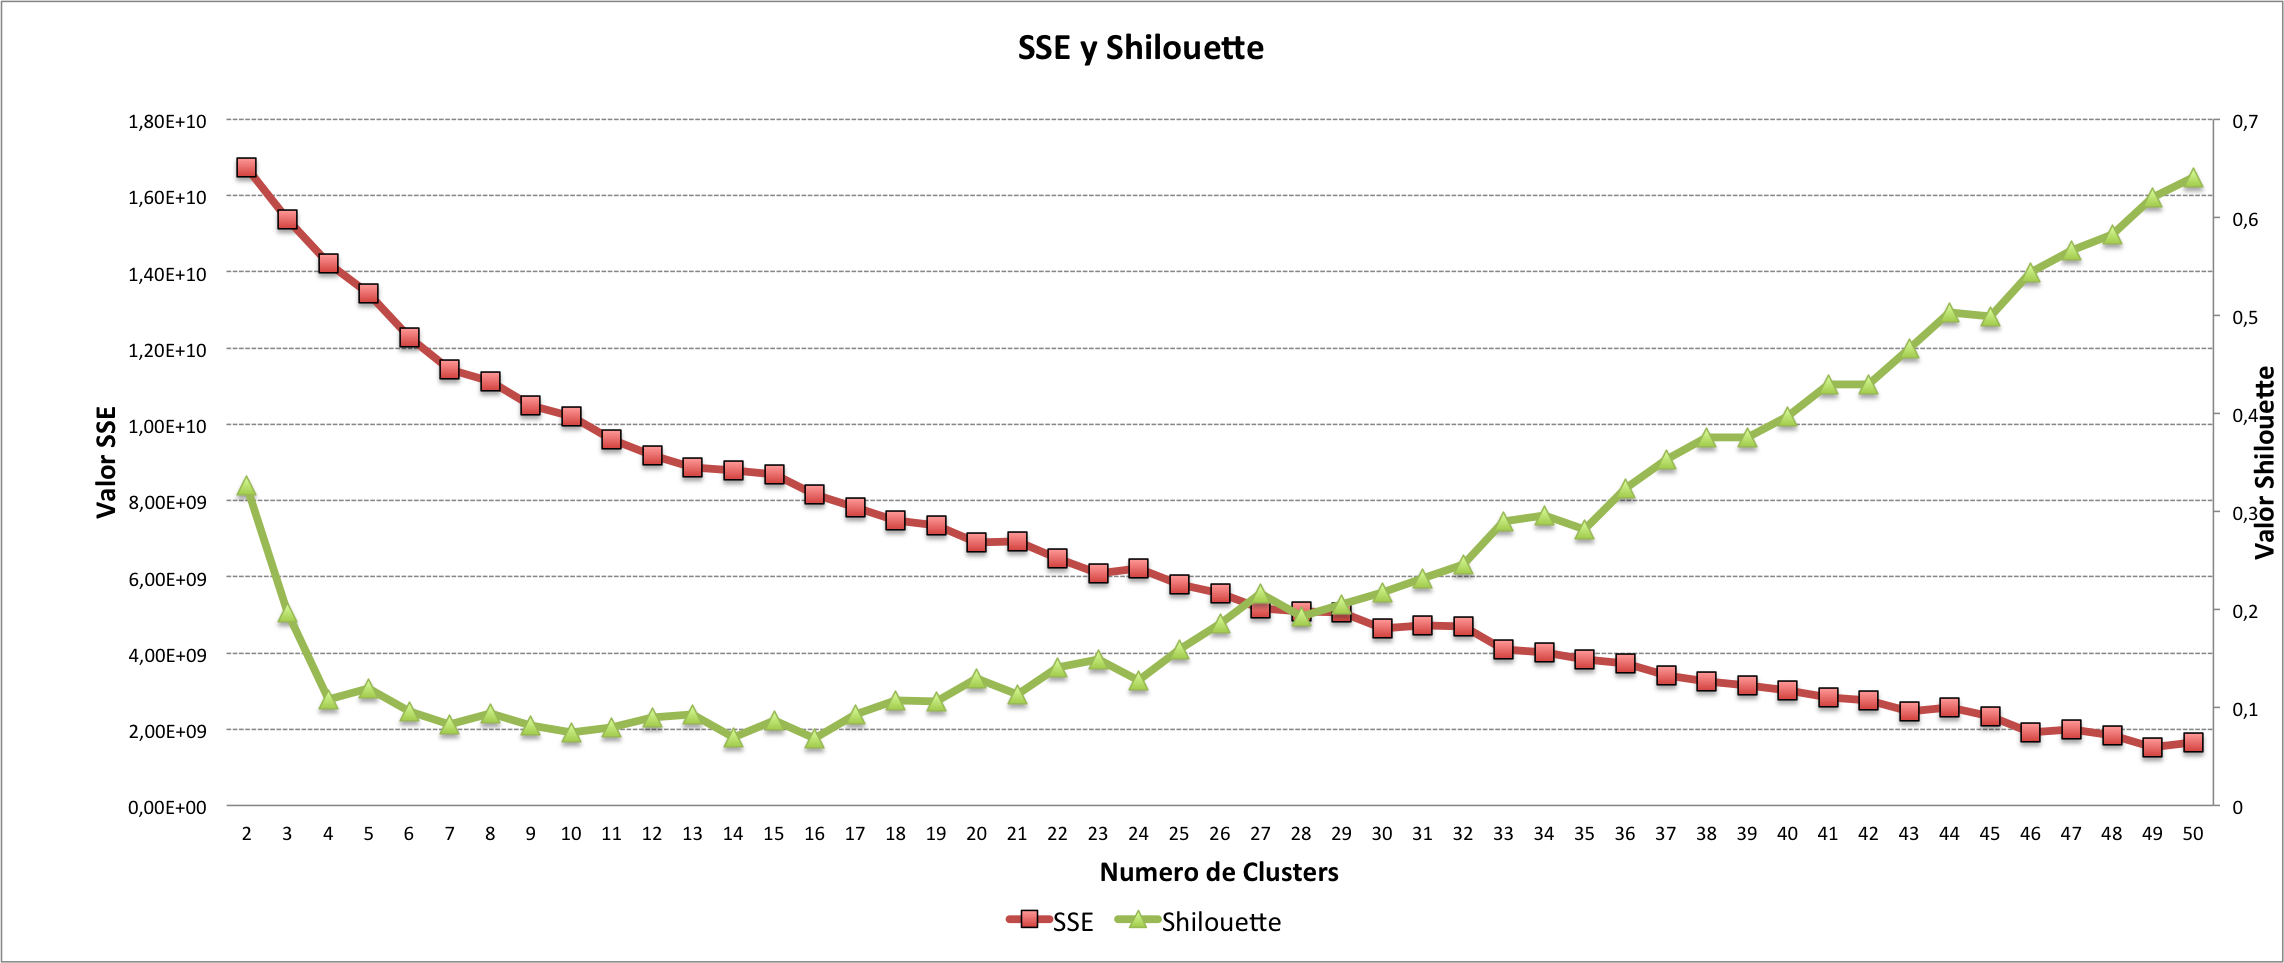
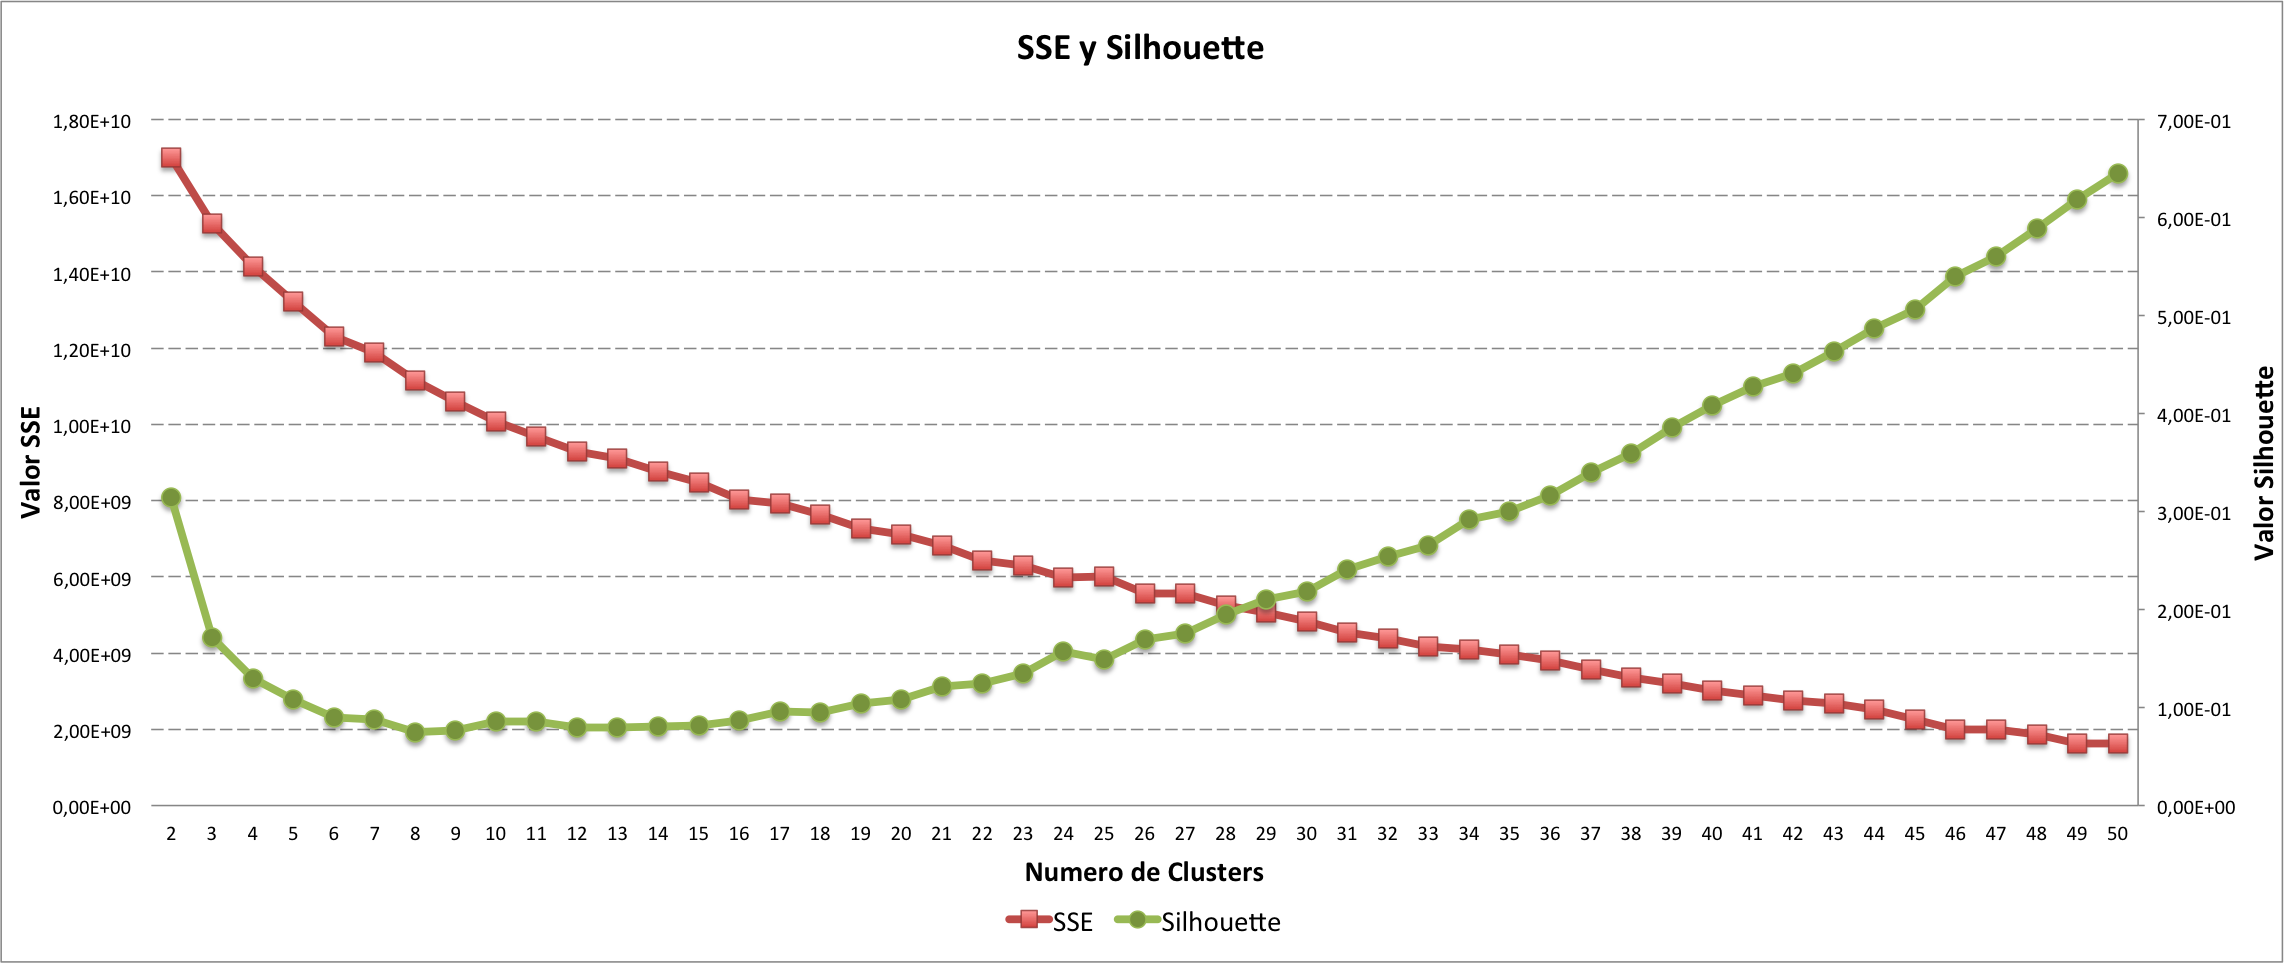
Tiempo e iteraciones

diff --git a/Kmeans/src/main/Ejecutador.java b/Kmeans/src/main/Ejecutador.java
@@ -32,24 +32,30 @@ public class Ejecutador {
 		//kmeans.setTimeOut(tiempo);
 		double mediaSSE;
 		double mediaShilouette;
-		int repeticiones = 10;
+		double repeticiones = 30;
 		long tI, tF, mediaT;
-		System.out.println("K\tSSE\tShilouette\tTiempo");
+		int mediaIt;
+		System.out.println("K\tSSE\tSilhouette\tTiempo\tIteraciones");
 		for (int K=2; K<=50; K++){
 			kmeans.setClusters(K);
 			mediaSSE=0;
 			mediaShilouette=0;
 			mediaT = 0;
+			mediaIt = 0;
 			for (int repeticion=0; repeticion<repeticiones; repeticion++){
 				tI = System.currentTimeMillis();
 				kmeans.buildClusterer(ins2);
 				tF = System.currentTimeMillis();
 				
+				mediaIt += kmeans.getIterationsDone();
 				mediaT += tF-tI;
 				mediaSSE += kmeans.SSE();
 				mediaShilouette += kmeans.silhouette();
 			}
-			System.out.println(K+"\t"+(""+(mediaSSE/repeticiones)).replace(".", ",")+"\t"+(""+(mediaShilouette/repeticiones)).replace(".", ",")+"\t"+(mediaT/repeticiones));
+			System.out.println(K+"\t"+(""+(mediaSSE/repeticiones)).replace(".", ",")+
+					"\t"+(""+(mediaShilouette/repeticiones)).replace(".", ",")+
+					"\t"+((mediaT/repeticiones)+"").replace(".", ",")+
+					"\t"+((mediaIt/repeticiones)+"").replace(".", ","));
 		}
 		
 		

diff --git a/Kmeans/src/src/Kmeans.java b/Kmeans/src/src/Kmeans.java
@@ -27,6 +27,8 @@ public class Kmeans implements Clusterer{
 	private int numIterations;
 	private long miliseconds;
 	
+	private int IterationsDone;
+	
 	public Kmeans(int centroide, int minkowski){
 		this.numCentroides = centroide;
 		this.m = new Minkowski(minkowski);
@@ -68,7 +70,9 @@ public class Kmeans implements Clusterer{
 		int buelta = 0;
 		long TInicio = System.currentTimeMillis();
 		long TFin = System.currentTimeMillis();
+		this.IterationsDone = 0;
 		while(!this.compararCentroides(this.centroides, centroidesTmp) && (this.numIterations!=-1?this.numIterations>buelta++:true) && (this.miliseconds!=-1?TFin-TInicio<this.miliseconds:true)){
+			this.IterationsDone++;
 			for (int i = 0; i < this.grupos.length; i++) {
 				this.grupos[i] = new ArrayList<Instance>();
 				
@@ -243,6 +247,10 @@ public class Kmeans implements Clusterer{
 
 	public void setClusters(int k) {
 		this.numCentroides = k;
+	}
+
+	public int getIterationsDone() {
+		return IterationsDone;
 	}
 
 }
